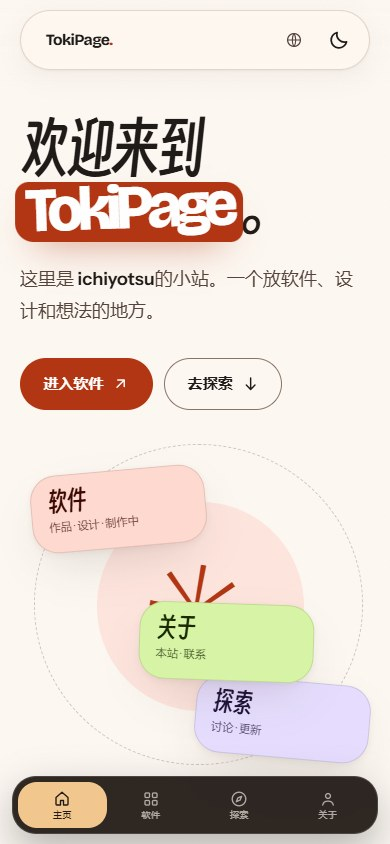
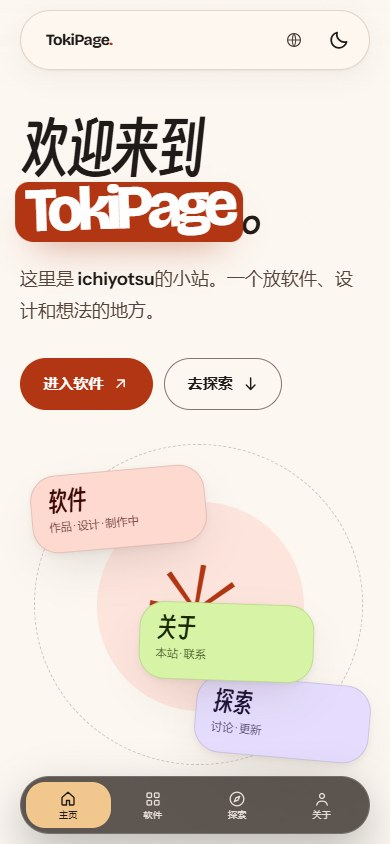
style: soften and align the mobile dock
Increase the mobile dock radius, align its outer edges with the topbar, add a translucent frosted finish, and turn the original footer into an in-flow footer that appears above the dock at the end of the page.

Changed region(s): [[0.0308, 0.8934, 0.9846, 1.0]]

diff --git a/assets/css/components.css b/assets/css/components.css
@@ -1034,16 +1034,39 @@ body {
 .mobile-dock { display: none; }
 
 @media (max-width: 860px) {
-  .site-footer { display: none !important; }
   .site-header .menu-button { display: none !important; }
   body {
     padding-bottom: calc(86px + env(safe-area-inset-bottom));
   }
 
+  .site-footer {
+    display: block !important;
+    position: static !important;
+    inset: auto !important;
+    z-index: auto !important;
+    height: auto !important;
+    margin: 18px 0 0 !important;
+    padding: 0 !important;
+    border: 0 !important;
+    background: transparent !important;
+    box-shadow: none !important;
+    backdrop-filter: none !important;
+  }
+
+  .site-footer::before { display: none !important; }
+
+  .site-footer .footer__inner {
+    width: calc(100% - 2 * var(--gutter));
+    min-height: 0;
+    margin-inline: auto;
+    padding: 12px 0 8px;
+    border-top: 1px solid var(--md-sys-color-outline-variant);
+  }
+
   .mobile-dock {
     position: fixed;
-    left: 12px;
-    right: 12px;
+    left: var(--gutter);
+    right: var(--gutter);
     bottom: calc(10px + env(safe-area-inset-bottom));
     z-index: 175;
     display: flex;
@@ -1051,15 +1074,15 @@ body {
     justify-content: space-around;
     height: 58px;
     padding: 5px;
-    border: 1px solid rgb(255 255 255 / 0.14);
-    border-radius: 24px;
-    background: color-mix(in srgb, #211915 94%, transparent);
-    box-shadow: 0 16px 40px rgb(0 0 0 / 0.28);
-    backdrop-filter: blur(16px) saturate(1.3);
-    -webkit-backdrop-filter: blur(16px) saturate(1.3);
+    border: 1px solid rgb(255 255 255 / 0.16);
+    border-radius: 30px;
+    background: rgb(30 23 19 / 0.72);
+    box-shadow: 0 18px 44px rgb(0 0 0 / 0.26);
+    backdrop-filter: blur(20px) saturate(1.5);
+    -webkit-backdrop-filter: blur(20px) saturate(1.5);
   }
 
-  body[data-page="garden"] .mobile-dock { right: 86px; }
+  body[data-page="garden"] .mobile-dock { right: calc(var(--gutter) + 70px); }
 
   .mobile-dock a {
     display: flex;
@@ -1070,7 +1093,7 @@ body {
     justify-content: center;
     gap: 2px;
     border-radius: 19px;
-    color: rgb(247 238 230 / 0.66);
+    color: rgb(247 238 230 / 0.9);
     font-family: var(--font-body);
     font-size: 0.58rem;
     line-height: 1;
@@ -1082,7 +1105,7 @@ body {
 
   body[data-page="garden"] .compose-fab {
     left: auto;
-    right: 12px;
+    right: var(--gutter);
     bottom: calc(10px + env(safe-area-inset-bottom));
     width: 58px;
     height: 58px;
@@ -1095,6 +1118,5 @@ body {
 }
 
 @media (max-width: 360px) {
-  body[data-page="garden"] .mobile-dock { right: 80px; }
   .mobile-dock a { font-size: 0.54rem; }
 }

diff --git a/README.md b/README.md
@@ -38,7 +38,7 @@
 - 页面以 1920×1080 为主要设计视口，内容最大宽度 1800px，左右留出呼吸区。
 - 顶栏、页面顶部和底部都有轻量渐变磨砂；顶栏模糊随滚动从 14px 加深到 26px。
 - 顶栏按钮按下会轻微回弹，并有一次边缘线条扩散动画；品牌 `TokiPage.` 悬停时出现整圆角底色。
-- 桌面底栏常驻，带磨砂与渐隐过渡；高度 54px，页面内容不会被永久遮住。手机端隐藏页脚，改成 TokiNote 风格的深色悬浮底栏，四个主入口常驻。
+- 桌面底栏常驻，带磨砂与渐隐过渡；高度 54px，页面内容不会被永久遮住。手机端改成 TokiNote 风格的深色磨砂悬浮底栏，四个主入口常驻；滑到页面底部时，原来的 ichiyotsu 页脚会作为静态内容显示在悬浮栏上方。
 - 顶栏是 999px 全圆角的胶囊形，避免显得方正。
 
 ## 主页
@@ -81,7 +81,7 @@
 - **悬浮控件**：左上角是四分区下拉，中间是探索数据条和独立的刷新按钮，右侧是搜索框；三者与顶栏左右对齐，高度和详情页返回按钮一致。
 - **信息流**：不显示头像；右上角是 `#分类` 标签，下面是标题、正文和配图，底部用超粗体数字显示浏览 / 点赞 / 评论。
 - **详情**：底部是悬浮操作栏；分类在左上角，指标不带图标，悬停时使用大圆角选中态。
-- **写作**：桌面悬浮按钮居中在底栏上方；手机端独立悬浮在 TokiNote 风格底栏右侧。草稿保存在本机，默认不使用 Markdown。
+- **写作**：桌面悬浮按钮居中在底栏上方；手机端独立悬浮在 TokiNote 风格底栏右侧，底栏与 FAB 组合的左右边缘和顶栏对齐。草稿保存在本机，默认不使用 Markdown。
 - **发布方式**：GitHub 页面 / 站内直发收进发布按钮右侧的下拉；评论面板同样处理。
 - **编辑器工具栏**：粗体等格式按钮改为文本框底部的悬浮胶囊，手机端可横向滑动。
 - **手机动画**：底部弹层使用更轻的短位移淡入，避免键盘和 viewport 变化造成抽搐。
